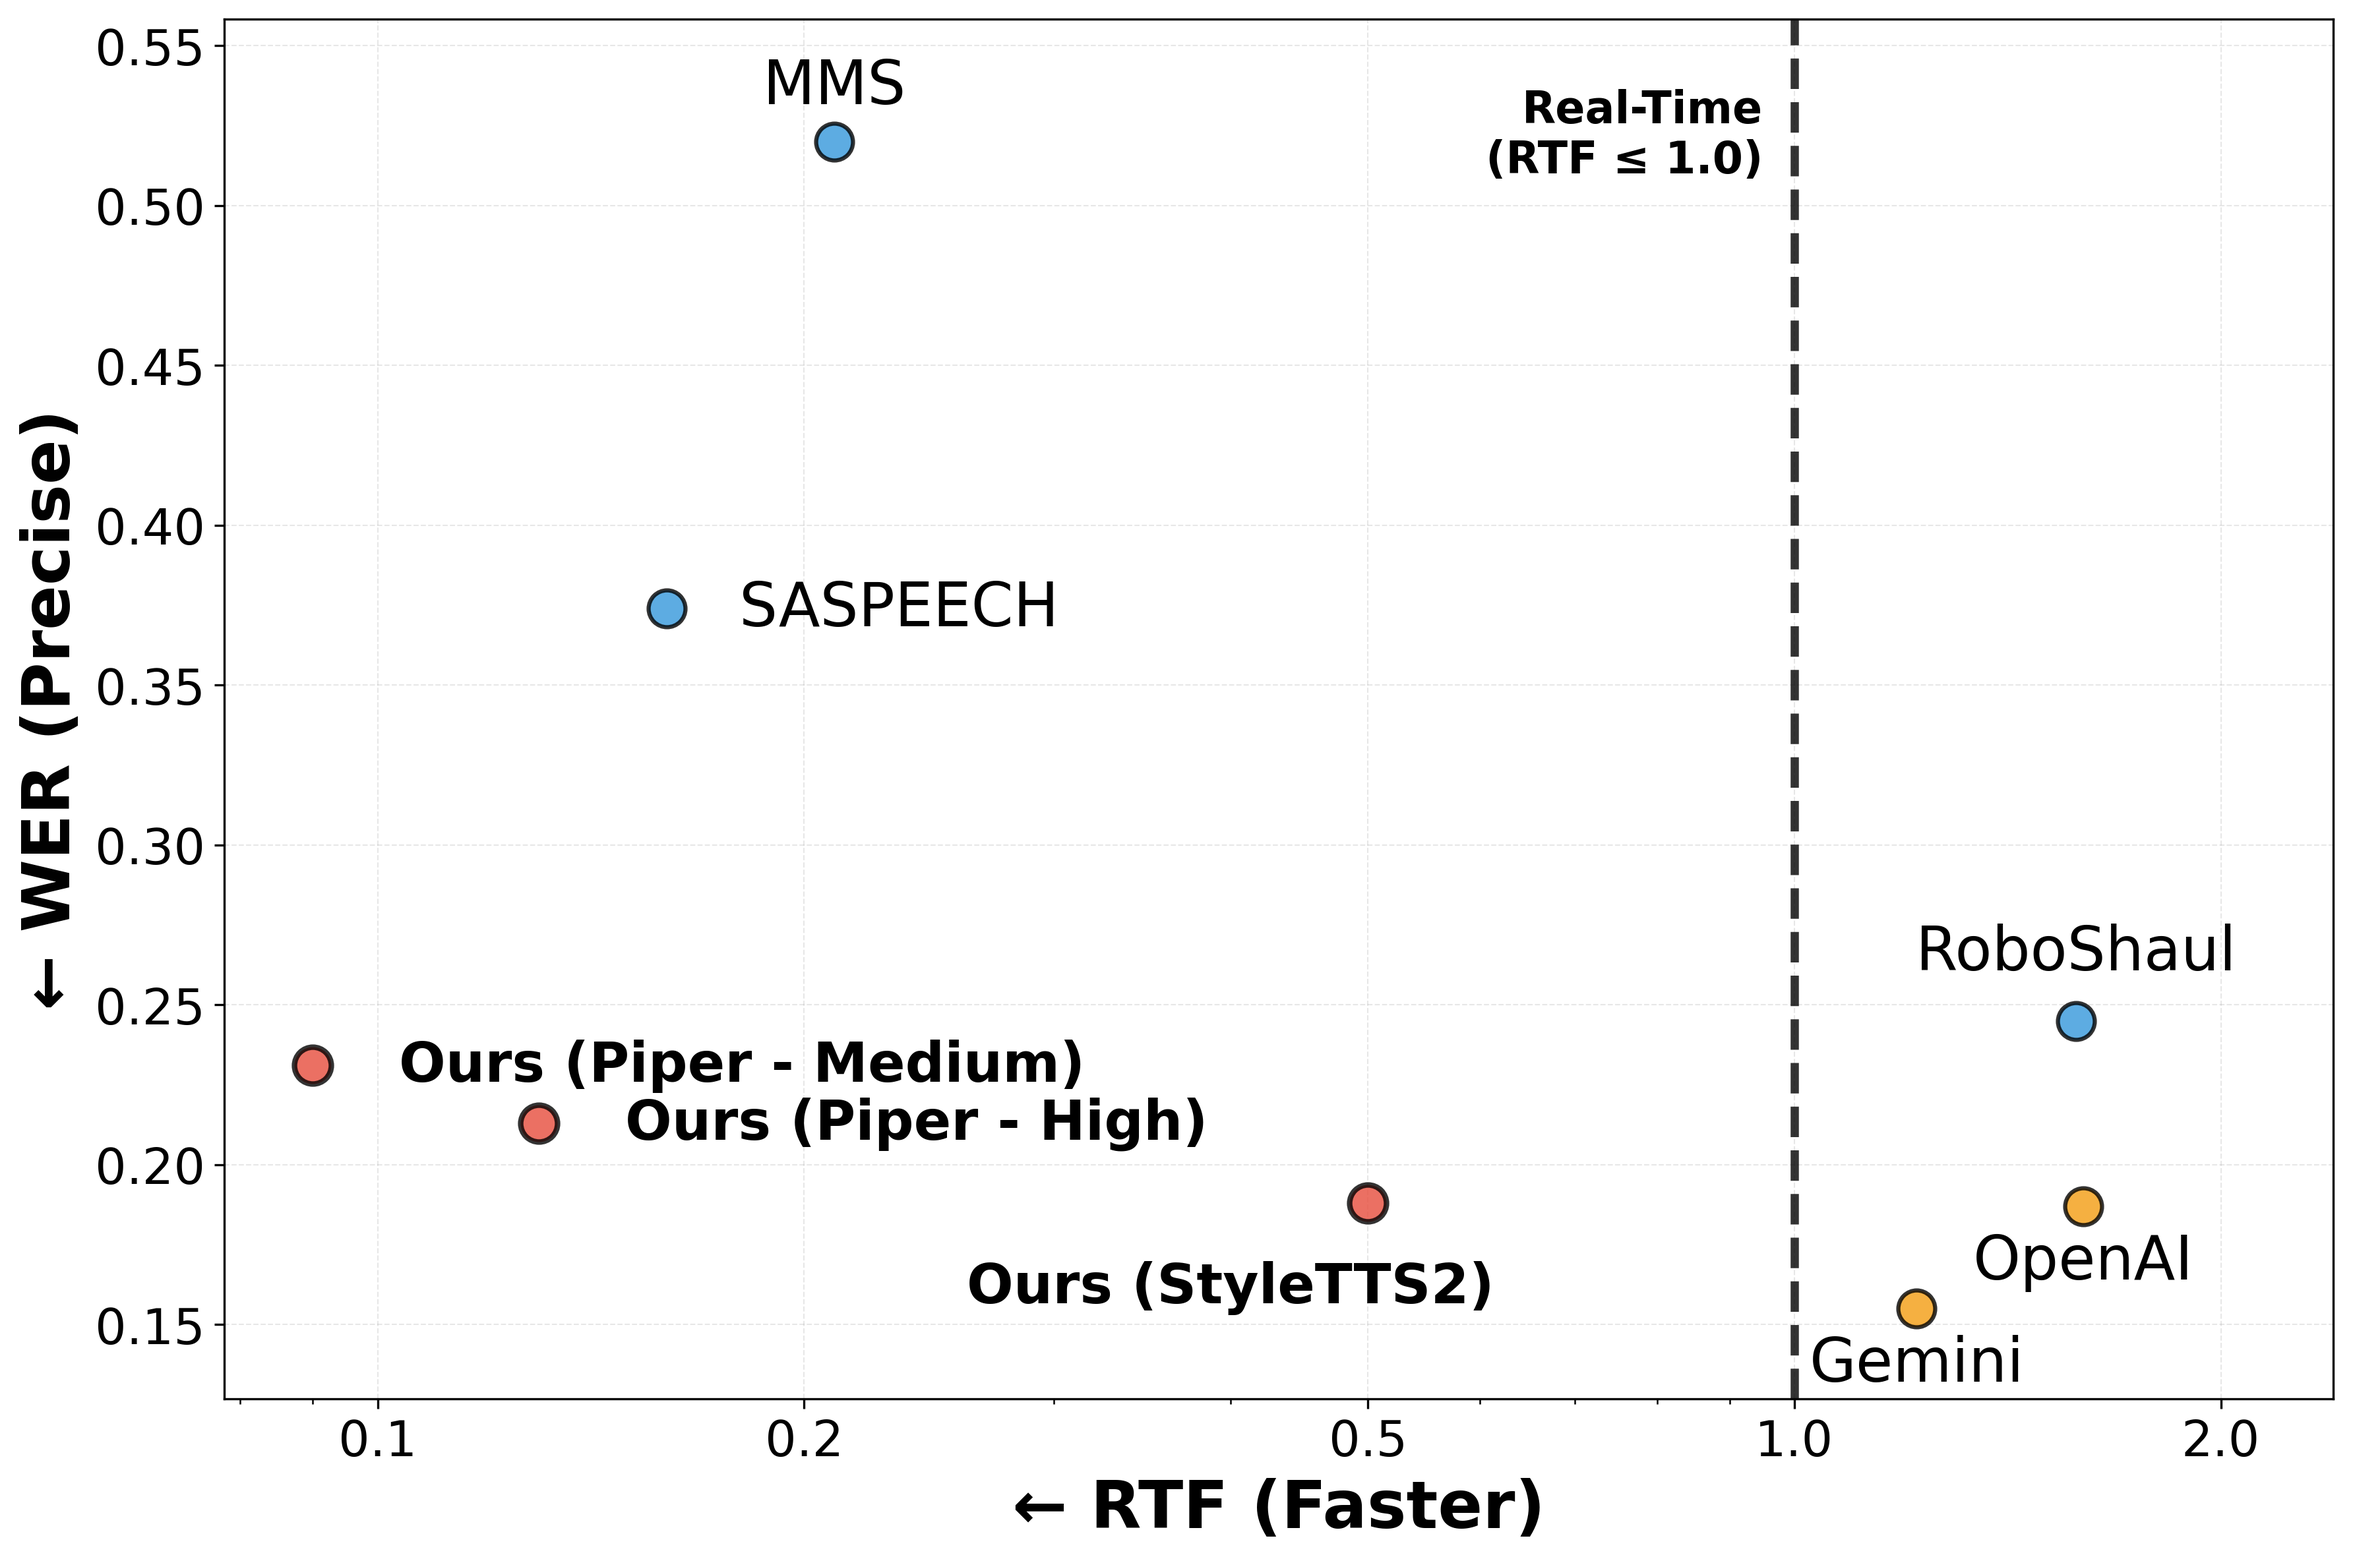
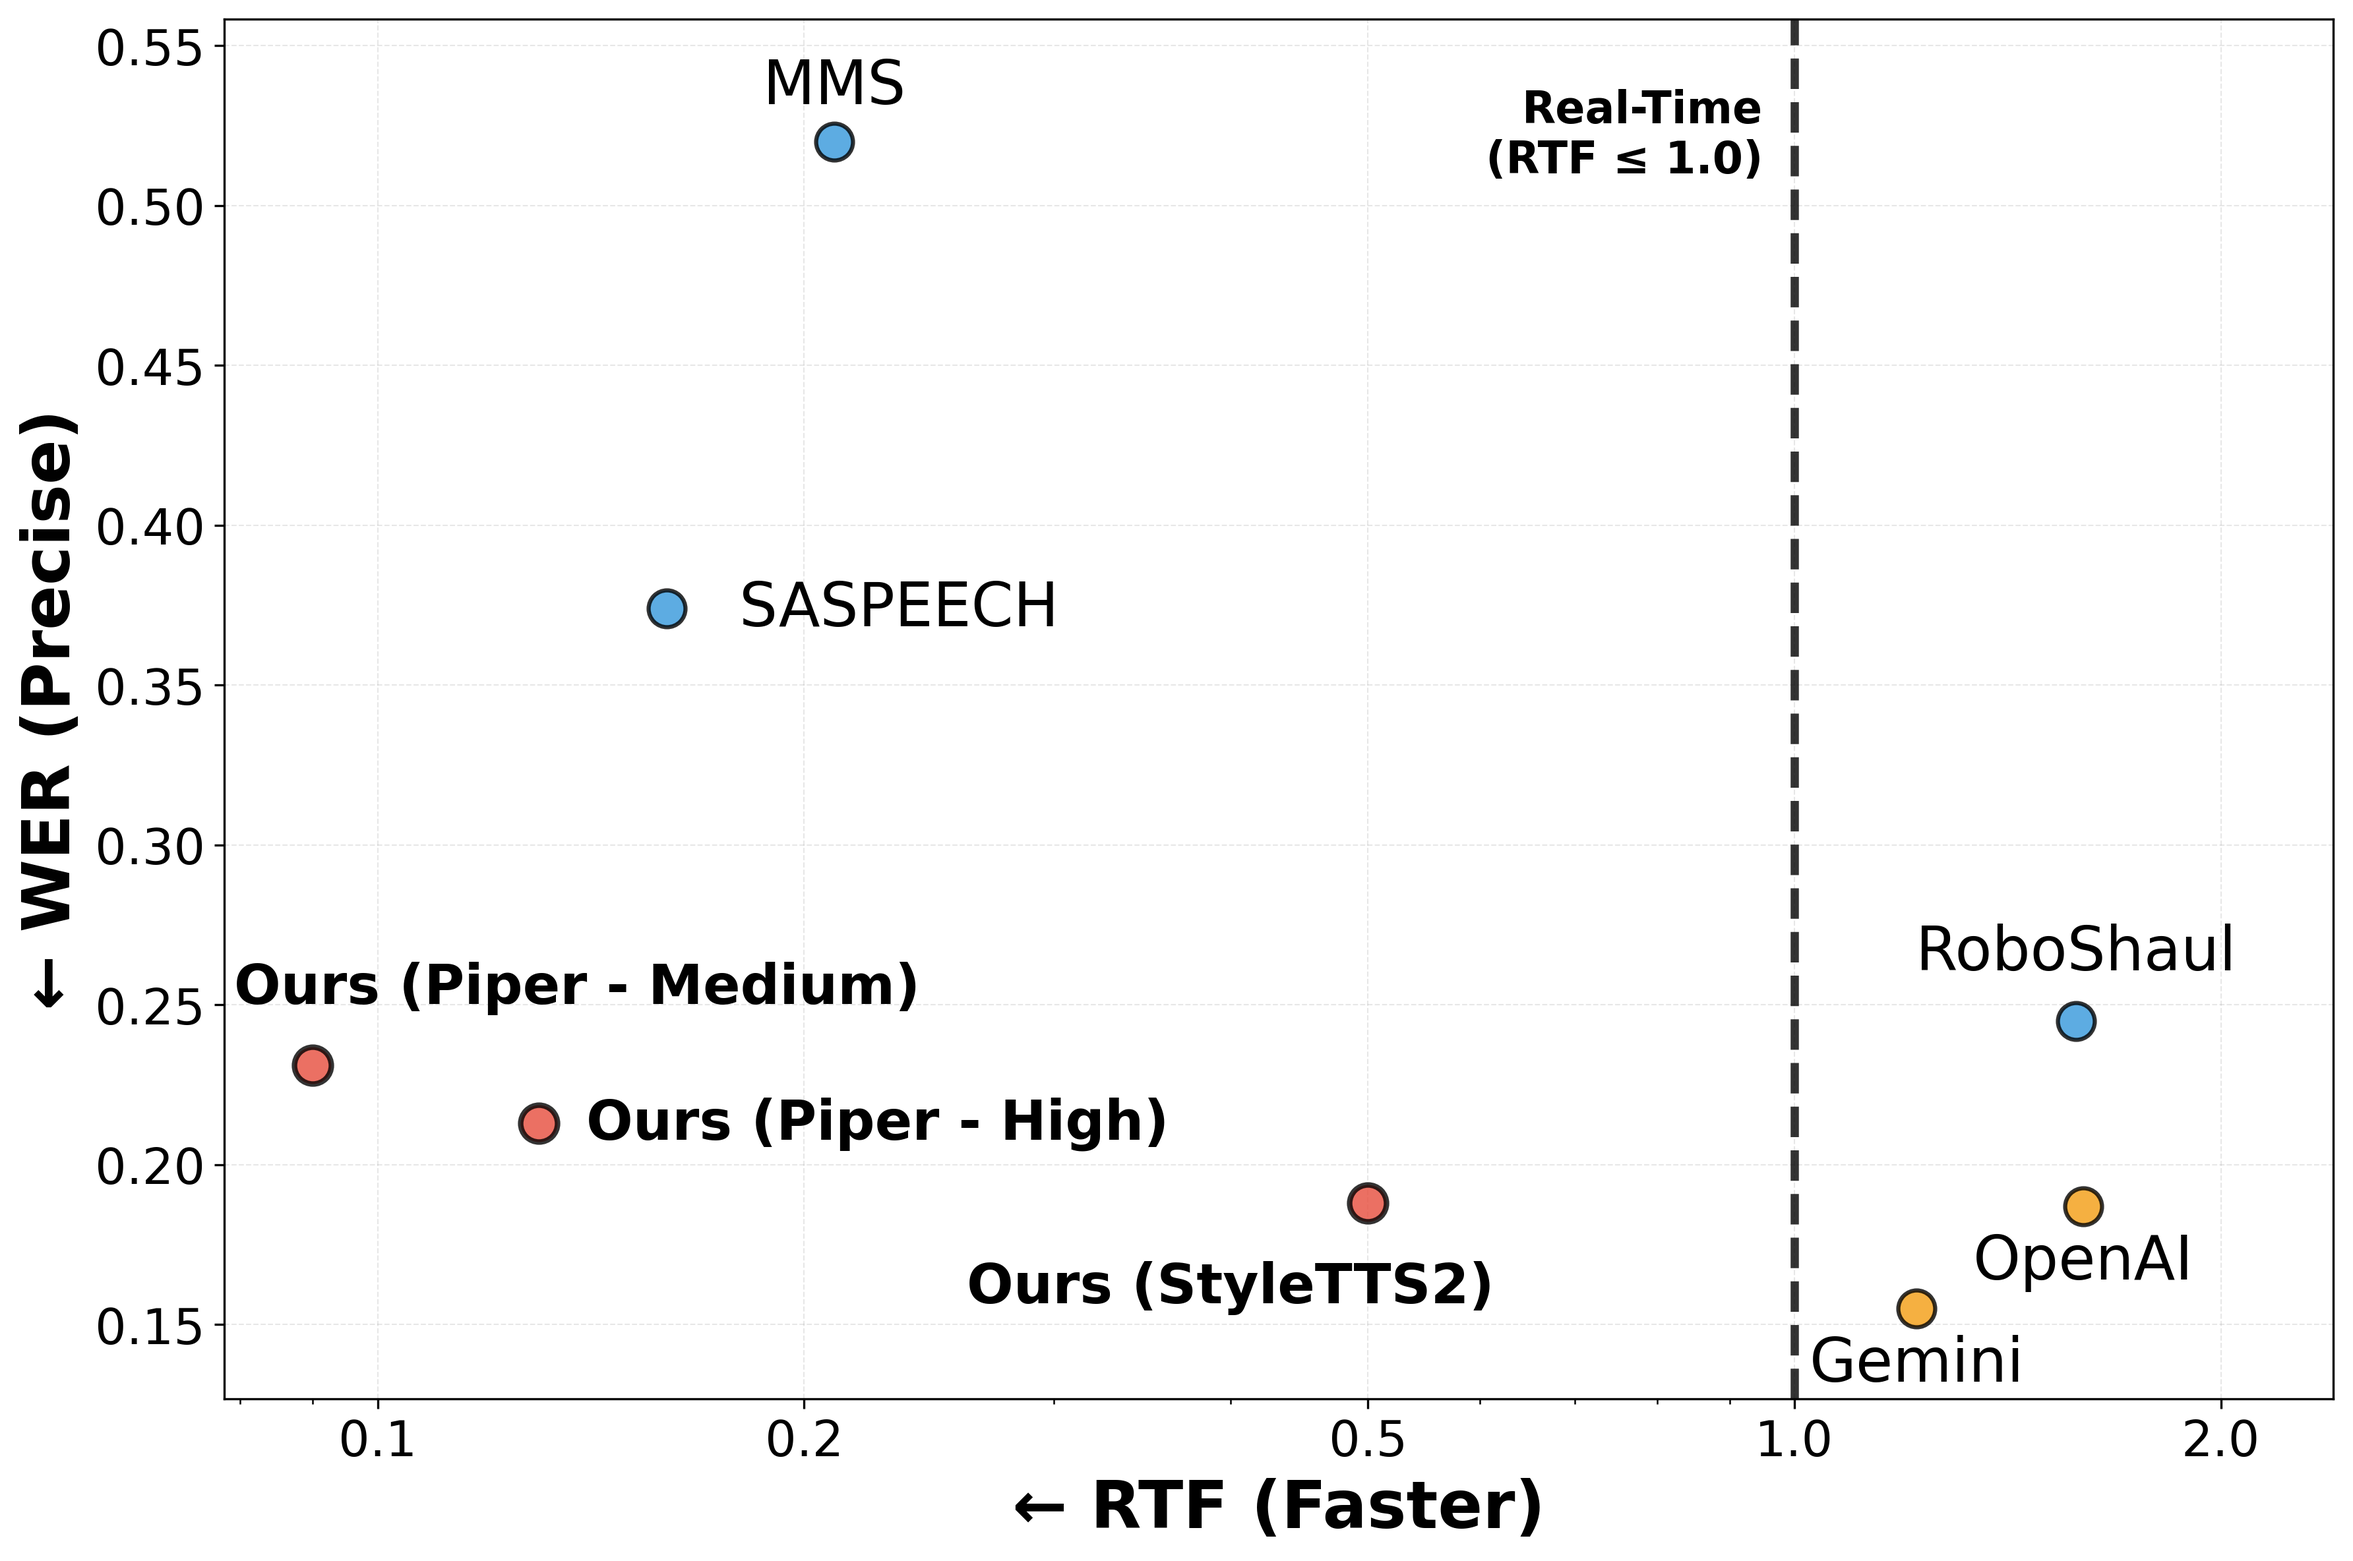
Update WER plot script to improve label consistency and adjust text positioning for "Piper - Medium" and "Piper - High"

Changed region(s): [[0.0933, 0.5938, 0.5289, 0.75]]

diff --git a/media/wer_plot.py b/media/wer_plot.py
@@ -45,13 +45,13 @@ for name, wer, rtf, category in filtered:
                         linewidths=edgewidth, zorder=3, alpha=0.8)
 
     # Adjust text position for each model
-    if name == "Piper Medium":
-        x_text = rtf * 0.9
-        y_text = wer + 0.013
+    if name == "Piper - Medium":
+        x_text = rtf * 0.88
+        y_text = wer + 0.016
         ha = 'left'
         va = 'bottom'
-    elif name == "Piper High":
-        x_text = rtf * 1.10
+    elif name == "Piper - High":
+        x_text = rtf * 1.08
         y_text = wer
         ha = 'left'
         va = 'center'
